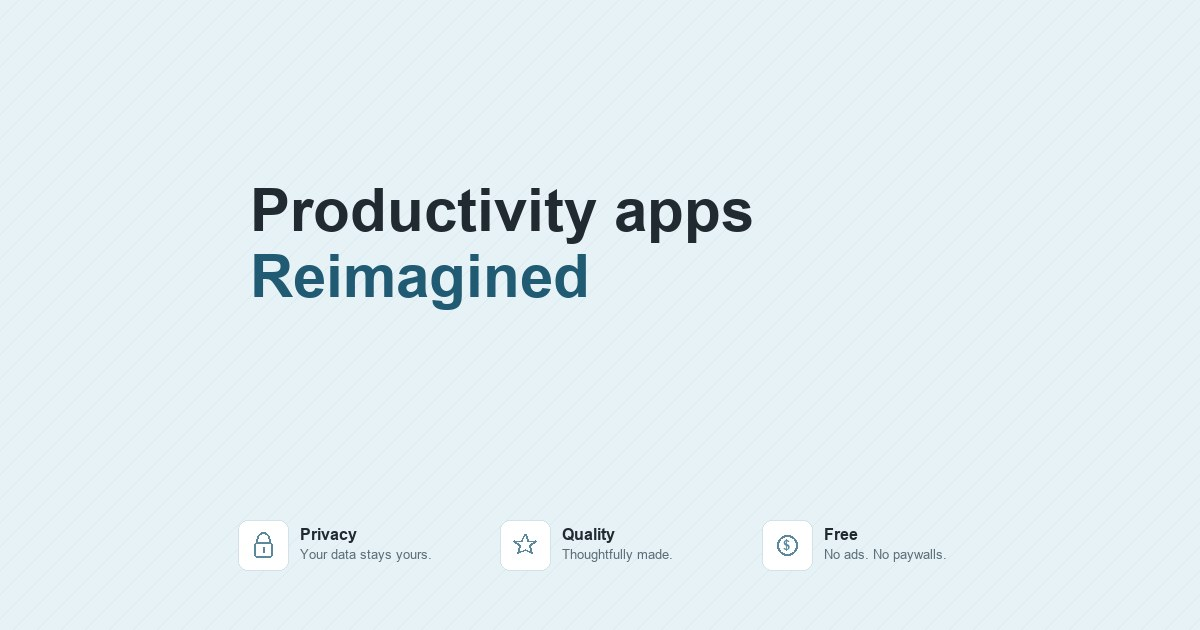
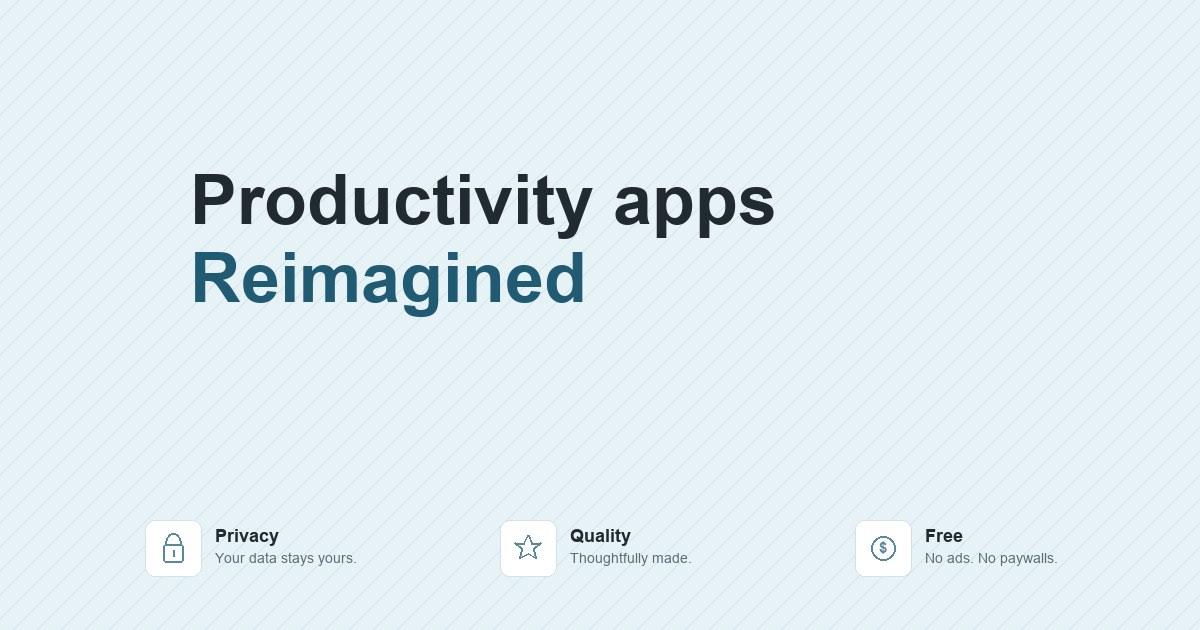
Preview redo

diff --git a/scripts/make-og-home.py b/scripts/make-og-home.py
@@ -9,7 +9,7 @@ from PIL import Image, ImageDraw, ImageFont
 
 W, H = 1200, 630
 BACKGROUND = (231, 242, 246)
-STRIPE = (218, 233, 239)
+STRIPE = (203, 225, 233)
 TEXT = (32, 42, 48)
 ACCENT = (32, 90, 115)
 ICON = (91, 137, 155)
@@ -33,46 +33,46 @@ def draw_background(img):
 
 
 def draw_feature(draw, x, y, title, description, kind, label_font, copy_font):
-    size = 50
+    size = 56
     draw.rounded_rectangle((x, y, x + size, y + size), radius=10,
                            fill=(255, 255, 255), outline=(211, 226, 232), width=1)
     cx, cy = x + size // 2, y + size // 2
     if kind == "lock":
-        draw.arc((cx - 7, cy - 13, cx + 7, cy + 6), 180, 360, fill=ICON, width=2)
-        draw.rounded_rectangle((cx - 9, cy - 3, cx + 9, cy + 12),
+        draw.arc((cx - 8, cy - 15, cx + 8, cy + 7), 180, 360, fill=ICON, width=2)
+        draw.rounded_rectangle((cx - 10, cy - 4, cx + 10, cy + 14),
                                radius=3, outline=ICON, width=2)
-        draw.line((cx, cy + 2, cx, cy + 7), fill=ICON, width=2)
+        draw.line((cx, cy + 2, cx, cy + 8), fill=ICON, width=2)
     elif kind == "star":
         points = []
         for i in range(10):
             angle = -math.pi / 2 + i * math.pi / 5
-            radius = 11 if i % 2 == 0 else 5
+            radius = 13 if i % 2 == 0 else 6
             points.append((cx + radius * math.cos(angle),
                            cy + radius * math.sin(angle)))
         draw.line(points + [points[0]], fill=ICON, width=2, joint="curve")
     else:
-        draw.ellipse((cx - 10, cy - 10, cx + 10, cy + 10), outline=ICON, width=2)
-        draw.text((cx, cy), "$", font=font(13), fill=ICON, anchor="mm")
+        draw.ellipse((cx - 12, cy - 12, cx + 12, cy + 12), outline=ICON, width=2)
+        draw.text((cx, cy), "$", font=font(15), fill=ICON, anchor="mm")
 
-    copy_x = x + size + 12
+    copy_x = x + size + 14
     draw.text((copy_x, y + 5), title, font=label_font, fill=TEXT)
-    draw.text((copy_x, y + 27), description, font=copy_font, fill=(91, 109, 119))
+    draw.text((copy_x, y + 30), description, font=copy_font, fill=(91, 109, 119))
 
 
 def main():
     img = Image.new("RGB", (W, H), BACKGROUND)
     draw_background(img)
     draw = ImageDraw.Draw(img)
-    title_font, label_font, copy_font = font(60), font(16), font(13, bold=False)
+    title_font, label_font, copy_font = font(70), font(18), font(14, bold=False)
 
-    draw.text((250, 176), "Productivity apps", font=title_font, fill=TEXT)
-    draw.text((250, 242), "Reimagined", font=title_font, fill=ACCENT)
+    draw.text((190, 160), "Productivity apps", font=title_font, fill=TEXT)
+    draw.text((190, 238), "Reimagined", font=title_font, fill=ACCENT)
 
-    draw_feature(draw, 238, 520, "Privacy", "Your data stays yours.",
+    draw_feature(draw, 145, 520, "Privacy", "Your data stays yours.",
                  "lock", label_font, copy_font)
     draw_feature(draw, 500, 520, "Quality", "Thoughtfully made.",
                  "star", label_font, copy_font)
-    draw_feature(draw, 762, 520, "Free", "No ads. No paywalls.",
+    draw_feature(draw, 855, 520, "Free", "No ads. No paywalls.",
                  "free", label_font, copy_font)
 
     img.save("site/og-home-preview.jpg", "JPEG", quality=88, optimize=True)
